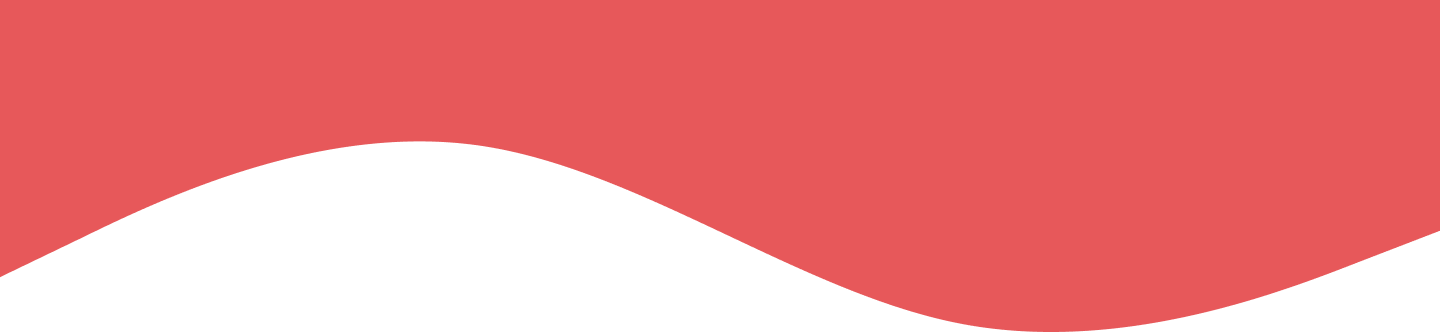
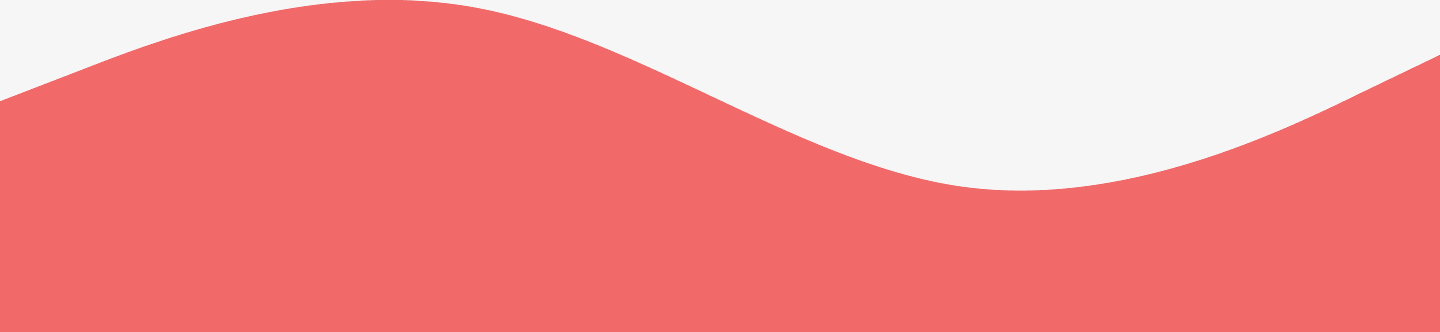
Ajustes responsividade tablet e mobile

diff --git a/assets/css/style.css b/assets/css/style.css
@@ -303,7 +303,7 @@ section .cards .card .botao button a {
     height: 800px;
   }
 
-  .retangule{
+  .retangule {
     width: 38%;
     height: 470px;
   }
@@ -313,34 +313,49 @@ section .cards .card .botao button a {
   nav {
     display: flex;
     justify-content: flex-start;
+    margin-left: 0px;
   }
+
   #secao-1 {
-    background-image: url("../image/IMAGE-HOME-DEGRADE-NOTEXT-MOBILE.png");
+    background-image: url("../image/headder-background.png");
     background-repeat: no-repeat;
     background-size: contain;
     padding: 30px 0px;
-    height: 500px;
+    height: 540px;
   }
 
   #secao-1-content {
-    width: 80%;
+    width: 65%;
   }
 
   #secao-1-text-header {
-    font-size: 25px;
+    font-size: 38px;
     line-height: 40px;
     margin: 0px;
     margin-top: -15px;
   }
 
   #secao-1-text {
-    font-size: 18px;
+    font-size: 24px;
     margin-top: 10px;
     padding-right: 90px;
   }
 
   #logo {
     width: 115px;
+    margin-left: 25px;
+  }
+
+
+  #titulo2{
+    font-size: 58px;
+    line-height: 20px;
+  }
+  .texto-sobre{
+    text-align: center;
+  }
+  h3{
+    margin: 25px 0px 25px 125px;
   }
 
   #saiba-como {
@@ -351,14 +366,17 @@ section .cards .card .botao button a {
     margin-left: 70px;
     margin-top: 50px;
   }
+  .retangule {
+    display: none;
+  }
 
   .navbar {
-    display: none;
+    margin-left: 20px;
+  }
+  nav ul li {
+    font-size: 20px;
   }
 
-  .home-page-btn {
-    display: none;
-  }
   section .titulo {
     text-align: center;
   }
@@ -376,6 +394,7 @@ section .cards .card .botao button a {
     margin-left: 70px;
   }
   #secao-1 {
+    background-image: url("../image/IMAGE-HOME-DEGRADE-NOTEXT-MOBILE.png");
     padding: 30px 0px 0px;
     height: 460px;
   }
@@ -409,6 +428,12 @@ section .cards .card .botao button a {
   }
 
   .retangule {
+    display: none;
+  }
+  .home-page-btn {
+    display: none;
+  }
+  .navbar{
     display: none;
   }
 }
